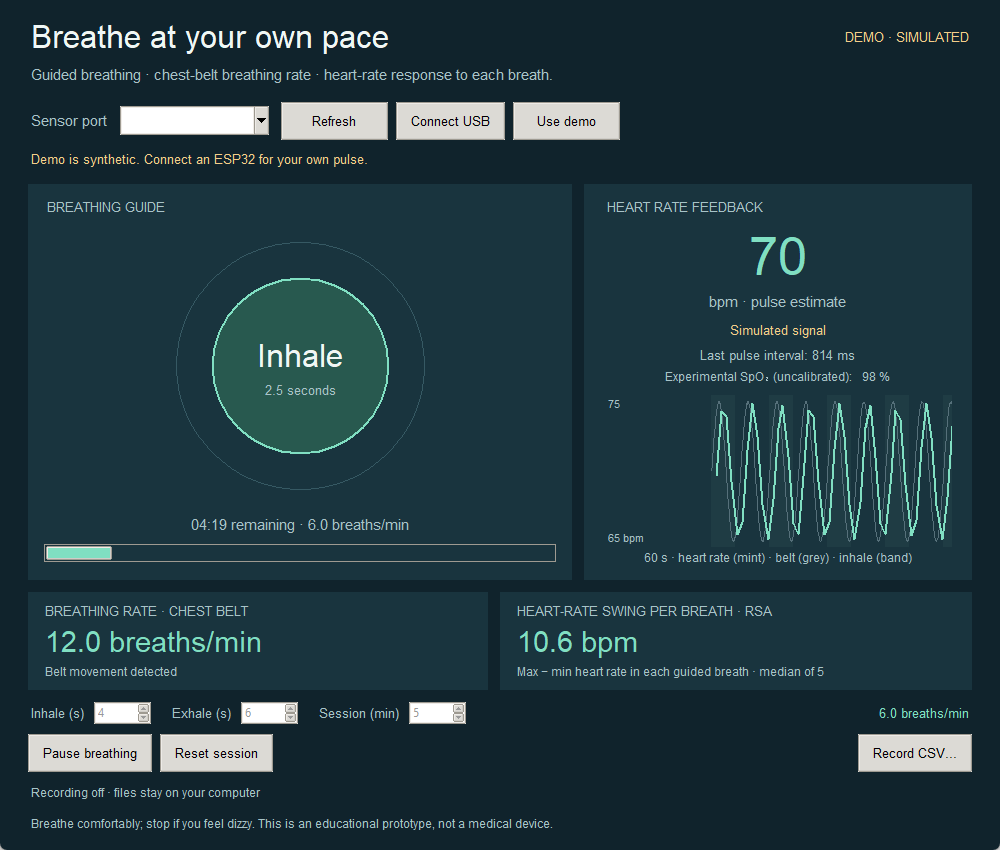
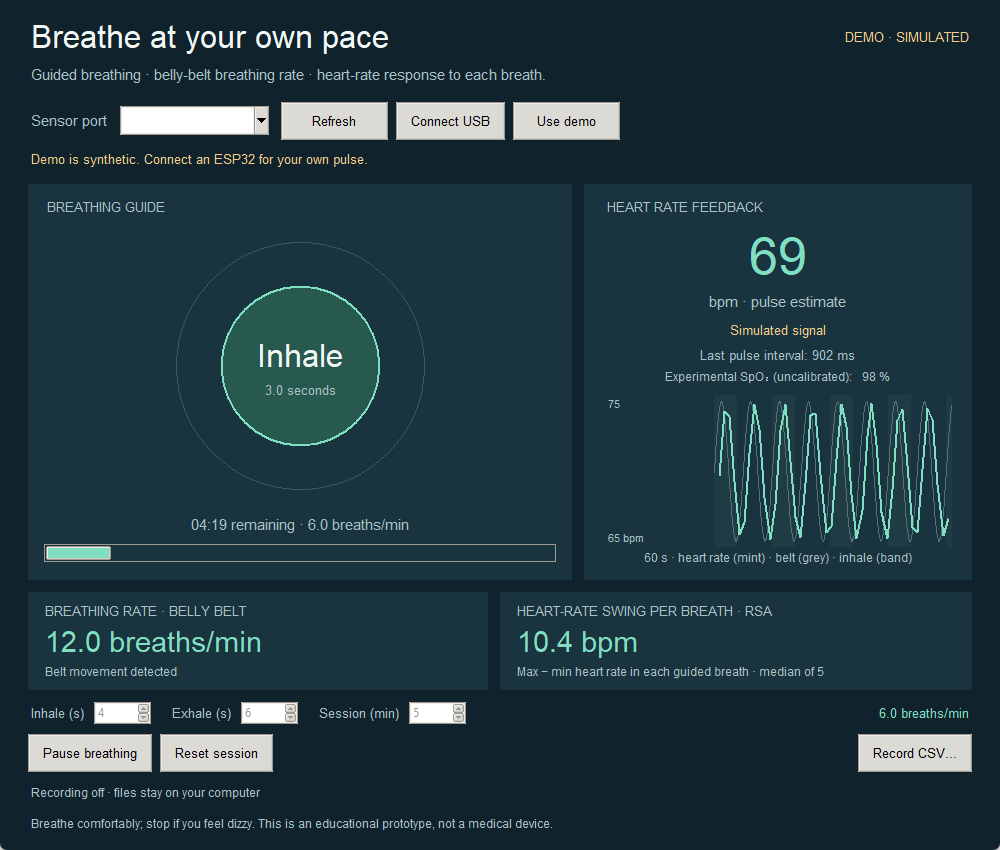
Docs: system overview diagram in the README, fresh app screenshot, belly-belt wording
The diagram replaces the ASCII sketch. The app's breathing-rate card still said
CHEST BELT; it now says BELLY BELT to match the GY-6500 belt.

diff --git a/app/trainer.py b/app/trainer.py
@@ -134,7 +134,7 @@ class Trainer:
         measurements.columnconfigure(1, weight=1, uniform="metric")
         breath = tk.Frame(measurements, bg=CARD, padx=14, pady=8)
         breath.grid(row=0, column=0, sticky="nsew", padx=(0, 12))
-        self.label(breath, "BREATHING RATE · CHEST BELT", 10, MUTED).pack(anchor="w")
+        self.label(breath, "BREATHING RATE · BELLY BELT", 10, MUTED).pack(anchor="w")
         self.breath_label = self.label(breath, "— breaths/min", 22, MINT)
         self.breath_label.pack(anchor="w")
         self.breath_status = self.label(breath, "Waiting for breathing belt", 9, MUTED)

diff --git a/README.md b/README.md
@@ -2,6 +2,8 @@
 
 A low-cost desktop trainer that paces your breathing and shows, breath by breath, how your heart rate responds. An ESP32 reads a fingertip pulse sensor and a motion sensor strapped to the belly and streams both to a Python app over USB. A built-in demo mode lets you try it before buying any parts.
 
+**Status:** software done and covered by 22 automated tests; ESP32 firmware compiles; not yet tested on hardware or a person.
+
 ![Application preview with simulated readings](docs/demo_preview.png)
 
 ## Try it on Windows (demo, no hardware)
@@ -31,15 +33,7 @@ This project shows the feedback that actually responds:
 
 ## Design
 
-```text
-MAX30102 (100 Hz red/IR) ─┐  shared I²C
-                          ├─ ESP32: beat detection, JSON lines ~25 Hz, 115200 baud ─┐
-GY-6500 belly tilt, 25 Hz ┘                                                         │
-                                                                                    ▼
- sources.py  reader thread → strict protocol parser → bounded queue (512)
- core.py     DeviceClock · PulseTracker · BreathTracker · hr_swing     (pure, unit-tested)
- trainer.py  Tk window, ticks every 40 ms: guide, readings, 60 s chart, CSV recording
-```
+![System overview: two sensors feed the ESP32 firmware, which streams JSON over USB to the Python app, which shows the guide, readings and chart and records CSV](docs/system_overview.svg)
 
 Main decisions and why:
 

diff --git a/docs/testing_plan.md b/docs/testing_plan.md
@@ -31,7 +31,7 @@ Passing these tests verifies software behavior on synthetic inputs. It does **no
 
 ## Breathing-rate comparison
 
-Use comfortable normal or paced breathing, without forced deep breathing or breath holds. Count complete chest expansion/relaxation cycles for **60 seconds** independently of the guide. Wait for the belt calibration and three cycles before evaluating its displayed value. Repeat at several comfortable rates and after re-fitting the belt.
+Use comfortable normal or paced breathing, without forced deep breathing or breath holds. Count complete breaths (belly rise and fall) for **60 seconds** independently of the guide. Wait for the belt calibration and three cycles before evaluating its displayed value. Repeat at several comfortable rates and after re-fitting the belt.
 
 For each trial record: duration, manual count, guide target (if used), displayed rate and its averaging delay, raw ADC range, fit, posture, movement and missing-reading periods. As a **proposed development target**, aim for agreement within **2 breaths/min at rest** after settling. This is an acceptance goal, not demonstrated accuracy. The display averages recent cycles; do not compare it with a single instantaneous breath immediately after changing pace. Investigate harmonics, missed cycles and motion-induced false breaths.
 
